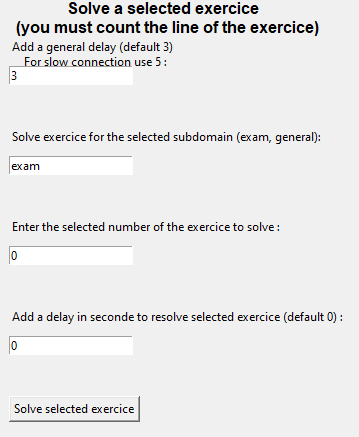
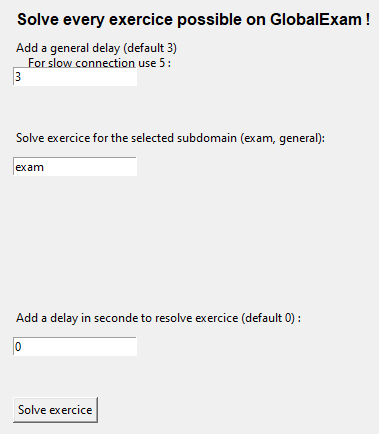
Removing stepExercice !
Removing stepExercice temporary patch

Update Readme.md

diff --git a/globalexam.py b/globalexam.py
@@ -30,13 +30,22 @@ def login_globalexam(driver, delay, username, password):
 
 # Function to loop for solving exercie
 # it can be in the exam or general subdomain
-def solve_next_exercice(driver, delay, subdomain, stepExercice, delayExercice):
+def solve_next_exercice(driver, delay, subdomain, delayExercice):
 
     # Go to exercices page
     driver.get("https://"+subdomain+".global-exam.com/library/study-sheets/categories/grammar")
     
     sleep(delay)
-    
+
+    # Find all the exercice button
+    allButtonsExercice = driver.find_elements(By.XPATH, "//button[contains(@class,'button-solid-default-small')]")
+
+    # Get the content of all the buttons
+    allButtonsExerciceContent = [button.text for button in allButtonsExercice]
+
+    # Count the number of "Relancer" between two or more "Me tester"
+    stepExercice = sum(1 for i, item in enumerate(allButtonsExerciceContent) if (item == "Relancer" and allButtonsExerciceContent[i - 1] == "Me tester" if i > 0 else False))
+
     # Find all the button that has "Me tester" inside and click on the first one
     buttonsExercices = driver.find_elements(By.XPATH, "//button[contains(.,'Me tester')]")
     clickOnFirstButton = buttonsExercices[0].click()
@@ -297,14 +306,14 @@ subdomain_entry.pack()
 subdomain_label.place(x=350, y=140)
 subdomain_entry.place(x=350, y=170)
 
-# Create a input for the step of the exercice
-stepExercice_label = tk.Label(window, text="If you already solve some exercice at the bottom of the page \n You must add a step to skip this exercice (default 0) :")
-stepExercice_label.pack()
-stepExercice_entry = tk.Entry(window)
-stepExercice_entry.insert(0, "0")  # Set default value
-stepExercice_entry.pack()
-stepExercice_label.place(x=350, y=230)
-stepExercice_entry.place(x=350, y=260)
+# # Create a input for the step of the exercice
+# stepExercice_label = tk.Label(window, text="If you already solve some exercice at the bottom of the page \n You must add a step to skip this exercice (default 0) :")
+# stepExercice_label.pack()
+# stepExercice_entry = tk.Entry(window)
+# stepExercice_entry.insert(0, "0")  # Set default value
+# stepExercice_entry.pack()
+# stepExercice_label.place(x=350, y=230)
+# stepExercice_entry.place(x=350, y=260)
 
 # Add delay to resolve the exercice
 delayExercice_label = tk.Label(window, text="Add a delay in seconde to resolve exercice (default 0) :")
@@ -320,7 +329,7 @@ def on_solve_next_exercice():
     username = username_entry.get()
     password = password_entry.get()
     delay = int(delay_entry.get())
-    stepExercice = invert_number(int(stepExercice_entry.get()))
+    # stepExercice = invert_number(int(stepExercice_entry.get()))
     delayExercice = int(delayExercice_entry.get())
 
     # See wich browser the user choose
@@ -368,7 +377,7 @@ def on_solve_next_exercice():
 
         # Loop to solve every exercice
         while True:
-            solve_next_exercice(driver, delay, subdomain, stepExercice, delayExercice)
+            solve_next_exercice(driver, delay, subdomain, delayExercice)
 
 # Create the solve next exercice button
 solve_next_exercice_button = tk.Button(window, text="Solve exercice", command=on_solve_next_exercice)

diff --git a/README.md b/README.md
@@ -21,13 +21,20 @@ pip install -r requirements.txt
 git clone https://github.com/Nv3l/GlobalExamSolver.git
 ```
 ## Pré-requis
-> Tester sur Python 3.8.5 et Windows 10 x64
+> Avoir Firefox d'installé sur votre machine
 
-> Utilisable uniquement sur Firefox
-
-> Script adapté pour les OS Windows et Linux avec interface graphique
+> Script utilisable pour les OS Windows et Linux avec interface graphique
 <br>
 
+## Fonctionnalités
+
+- Résolution automatique des exercices GlobalExam
+- Résolution des exercices de grammaire exam et général
+- Résolution de tous les exercices en continu
+- Résolution d'un exercice spécifique
+- Choix du temps de réponse
+- Utilisation adaptative pour toute connexion internet
+<br>
 ## Utilisation
 
 Lancer le fichier [globalexam.exe](globalexam.exe)
@@ -55,35 +62,18 @@ L'interface se divise en 2 parties :
 
 <br>
 
-## Fonctionnalités
-
-- Résolution automatique des exercices GlobalExam
-- Résolution des exercices de grammaire exam et général
-- Résolution de tous les exercices en continu
-- Résolution d'un exercice spécifique
-- Choix du temps de réponse
-- Utilisation adaptative pour toute connexion internet
-
-<br>
 
 ## Résolutions de problème
 
-Si vous avez résolu plusieurs exercices à la fin de la page, il est possible que le programme ne puisse pas résoudre les exercices suivants.
-Il en va de même si vous avez plusieurs exercices qui affichent en définitif un résultat négatif.
-
-Pour résoudre ce problème, il suffit de renseigner le nombre d'exercices que vous avez fait dans la partie "Skip step".
-
-
-<br>
-
-<div id="skip_step" align="center">
-  <img src="img/Skip Step.png"> 
-</div>
-
-<br>
+> Cet outil est testé sur Python 3.8.5 et Windows 10 x64
 
 Si la fenêtre "freeze" au lancement, cela est normal. Le programme télécharge le driver de Firefox pour la première fois. Il suffit d'attendre quelques secondes pour que la fenêtre se lance.
 
 ## Support
 
 Pour tout report de bug, vous pouvez ouvrir une issue sur le repository.
+
+
+## Disclaimer
+
+This script is for educational purposes only.
